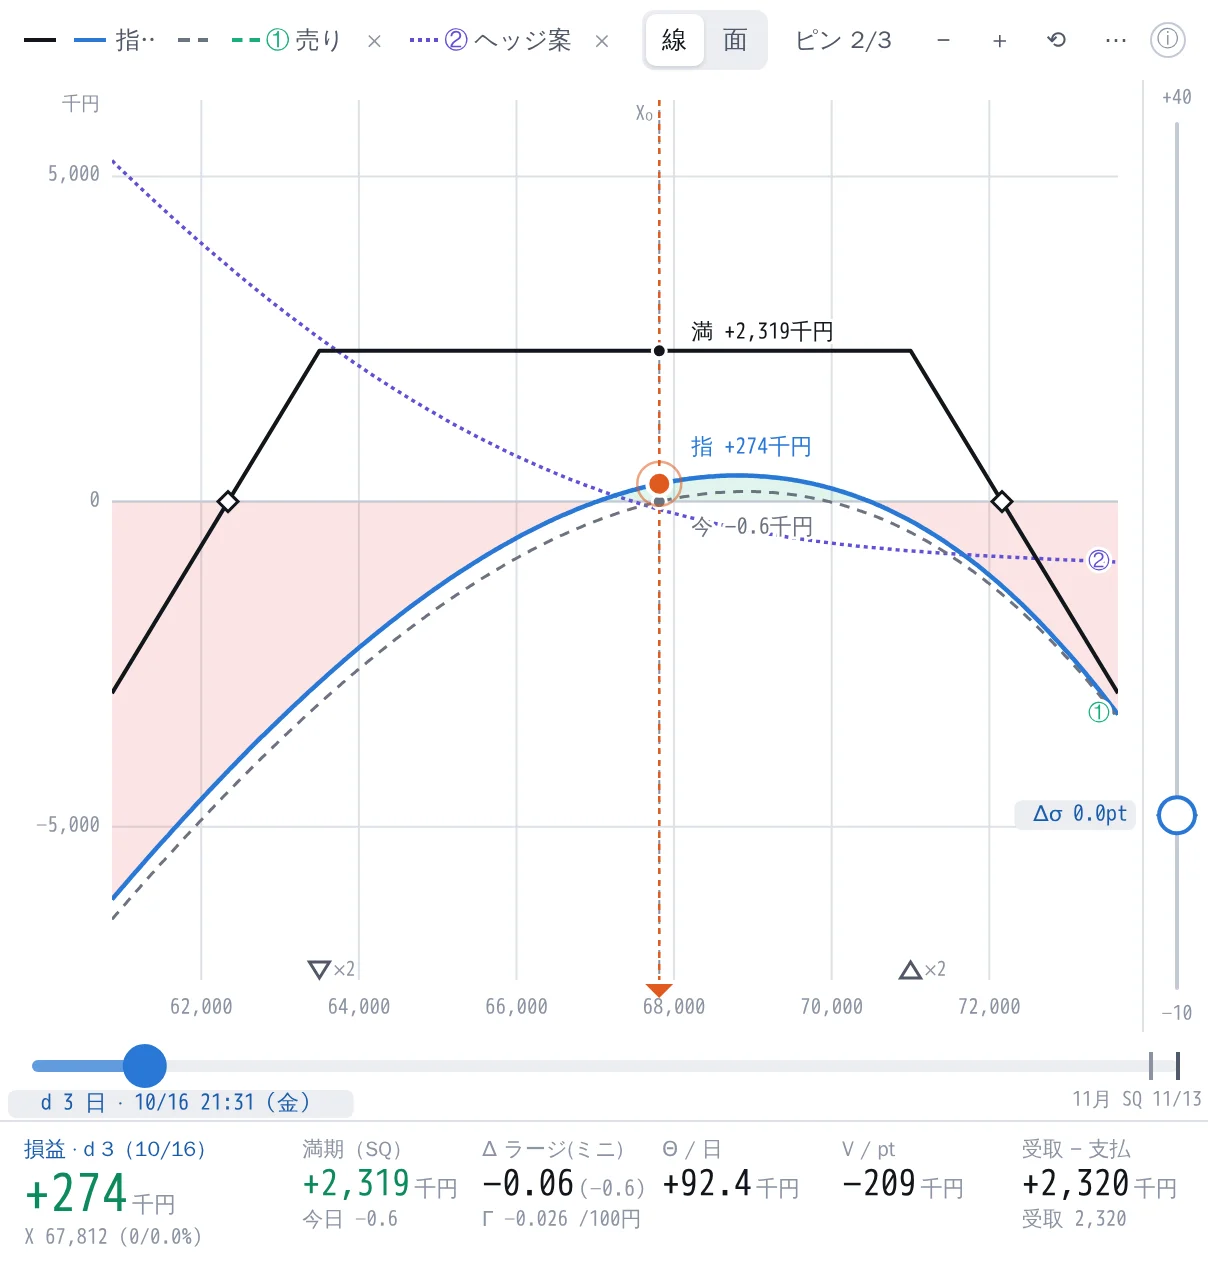
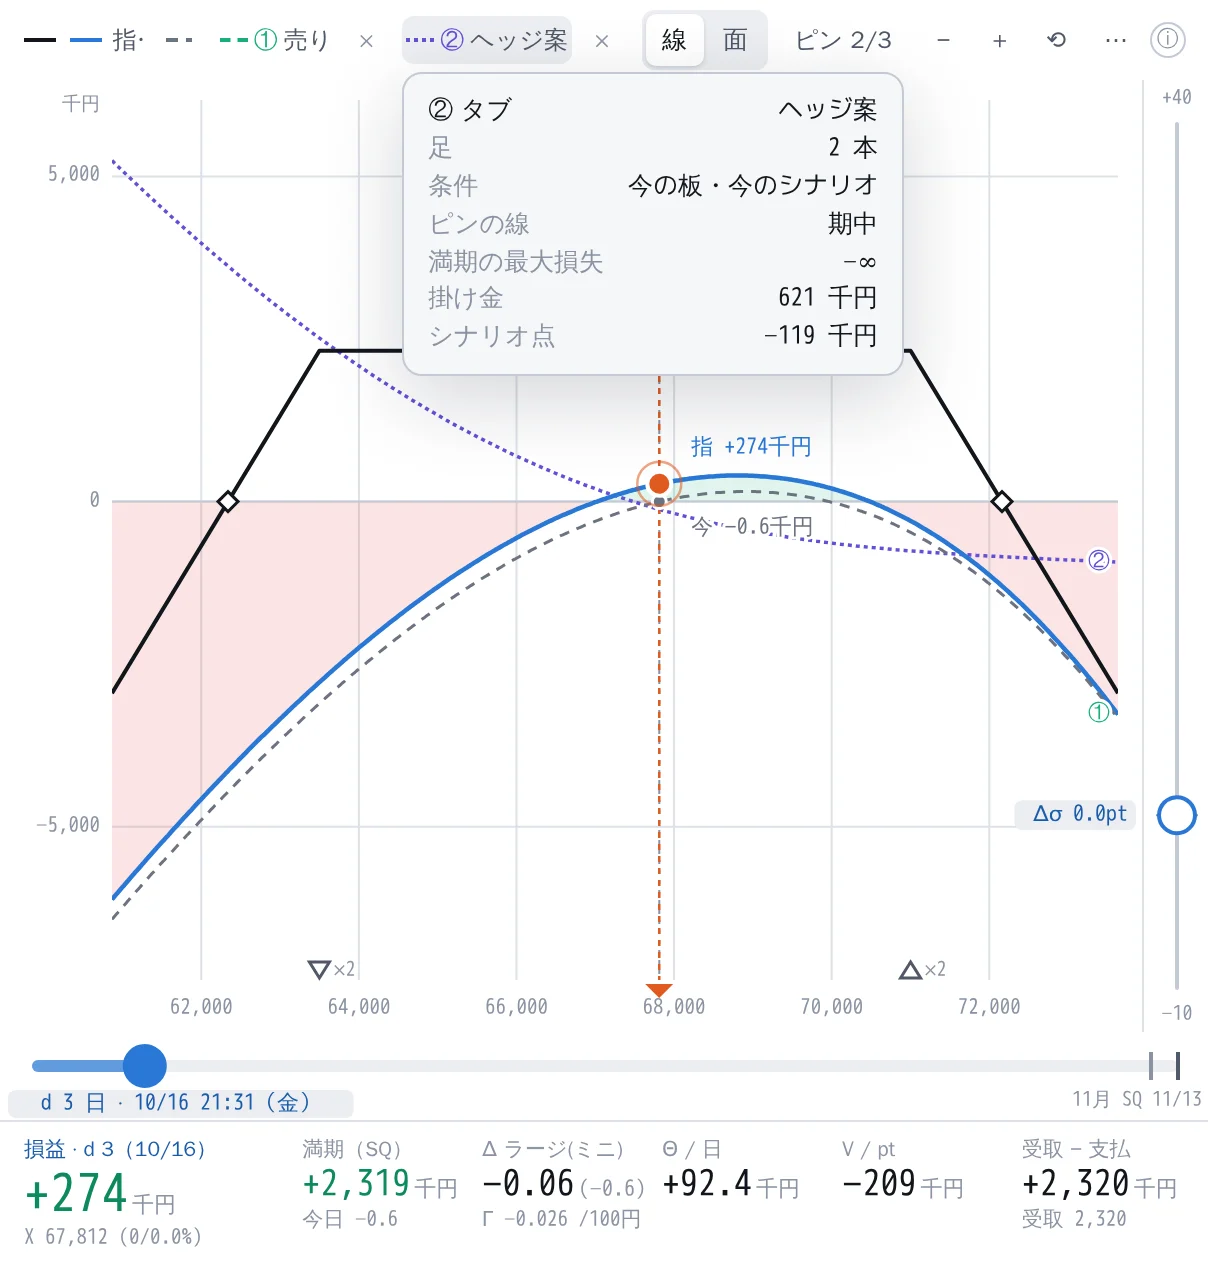
docs: 2026-10-22 に出した機能に合わせて文書を点検・最新化し、README の画像を撮り直す
- README: 機能一覧と機能ツアーに許容損失の境目（#180）・ピンの中身（#125）・売りの効率の線（#163）
- マニュアル: 市場の切替に [先物]、ピンの操作、許容損失は AI に渡らないこと、
  閉じた / 予定の無い機能を「今後の予定」と書かない（テンプレートは AI の提案で）
- design.md: 状態の行、テンプレート（#20）の見送り、縦切りの状態（#38 が残る）、
  10 章のコードの置き場所、12 章の面モード、13.4 のピンのポップオーバー、変更履歴
- ui-redesign.md: #123 の変更履歴を先頭へ、#125・#176 の履歴、#91 段 D の記録に #125 の解決
- data-sources.md（#247・#257）、ai-advisor.md（状態）、api/README.md・CLAUDE.md（API の口）
- readmeShots: 追証マップに許容損失、スマイルに [効率]、ピンの中身を開いて撮る。
  holdmap・smile・stage-pins を撮り直し（合成の板の架空の値）

diff --git a/README.md b/README.md
@@ -27,11 +27,11 @@
 
 板から足を選んでポジションを組み、満期・指定日・今日の損益を 1 枚のグラフで読みます。グラフのハンドルをつかんで日数・原資産・IV を動かすと、損益・グリーク・証拠金・テールが一緒に動きます。PC では 1 画面に収まり、スマホではドックとシートで切り替えます。
 
-- **損益グラフ** — 満期（解析解）・指定日 + シナリオ・今日の 3 本。十字線で任意の原資産の損益を読む、長押しでシナリオ点をつかむ、ピンで別の案と重ねる、日数 × 原資産の **面** にも切り替え
+- **損益グラフ** — 満期（解析解）・指定日 + シナリオ・今日の 3 本。十字線で任意の原資産の損益を読む、長押しでシナリオ点をつかむ、ピンで別の案と重ねる（凡例の番号を押すと条件・最大損失）、日数 × 原資産の **面** にも切り替え
 - **シナリオ** — 経過日数・原資産 ΔX（−90〜+100%）・IV 平行移動 Δσ・スキュー Δs・β（下落で IV が上がる）。急落 / 下落 / 反発のプリセット
 - **指標 · テール** — 最大損益・BEP・合計グリーク（Δ はラージ / ミニ換算）、−5〜−40% のテール表
-- **証拠金の概算** — 必要証拠金・余力、損益グラフに **追証の線**、過去の 2 営業日の動きと重ねる **追証マップ**
-- **板とスマイル** — 板の bid で売り・ask で買いの足が入る。スマイル（bid / ask / mid の IV と補間・外挿）の点からも
+- **証拠金の概算** — 必要証拠金・余力、損益グラフに **追証の線**、過去の 2 営業日の動きと重ねる **追証マップ**（許容損失を設定すると、その境目も）
+- **板とスマイル** — 板の bid で売り・ask で買いの足が入る。スマイル（bid / ask / mid の IV と補間・外挿）の点からも。[効率] で行使価格ごとの **売りの効率**（プレミアム ÷ 必要証拠金）の線
 - **IV 推移と先物推移** — ATM IV と日経225 先物のローソク足（1 分〜日足）。先物には EMA の 3 本と RSI・MACD・ストキャスティクスの段
 - **AI に相談** — [このポジションを診断]、**定型の質問**（崩れ方・反論・板の前提・ヘッジ案・出口・今の IV は売り時？）、続けての質問、画面の数字からの **[AI に聞く]**、ヘッジや組み方の **提案のカード**、先物の **テクニカルの読み**、**IV の過去の統計**（分位・スパイクの戻り方・β の実測・HV）、使い方・計算の前提の質問にはマニュアルの節を示して答える。返答の比較は表で、用語は説明カードへのリンクに。設定に **自分の前提**（資金・許容損失・好む形など）を書くと毎回渡る。数字はこのシミュレーター自身の計算から取る
 - **コマンドパレット・用語集・設定** — `Ctrl + K` で何でも、`?` で用語の説明カード。テクニカル指標の期間と線の太さも設定で
@@ -55,11 +55,11 @@
     <td><b>長押しでつかむ</b> — シナリオ点を左右に動かすと、交点の金額と下の読み取り（損益・満期・Δ・Θ・V）が付いてくる</td>
   </tr>
   <tr>
-    <td><img src="docs/images/stage-pins.webp" alt="ライト。今の線のピンとヘッジ案のピンを重ねた損益グラフ"></td>
+    <td><img src="docs/images/stage-pins.webp" alt="ライト。今の線のピンとヘッジ案のピンを重ねた損益グラフと、凡例の ② を押して開いたピンの中身（足・条件・満期の最大損失・掛け金・シナリオ点の損益）"></td>
     <td><img src="docs/images/stage-surface.webp" alt="ダーク。横が原資産・縦が経過日数の損益の面（緑が利益・赤が損失）に十字線と、その点の損益と日数の札"></td>
   </tr>
   <tr>
-    <td><b>ピン</b> — 今の線を残す・別のタブ（ヘッジ案）を重ねる。最大 3 本</td>
+    <td><b>ピン</b> — 今の線を残す・別のタブ（ヘッジ案）を重ねる。最大 3 本。凡例の ①②③ を押すと、そのピンの条件・満期の最大損失・シナリオ点の損益が出る</td>
     <td><b>面モード</b> — 横 = 原資産、縦 = 経過日数。点をドラッグすると ΔX と d が同時に動く。PC はマウスを載せた点の損益と日数を十字線で読む</td>
   </tr>
 </table>
@@ -81,21 +81,21 @@
 <table>
   <tr>
     <td width="50%"><img src="docs/images/margin-line.webp" alt="ライト。全域まで縮小した損益グラフに、赤の破線「追証」が左右に 2 本"></td>
-    <td width="50%"><img src="docs/images/holdmap.webp" alt="ダーク。追証マップ。横が原資産の変化・縦が IV の倍率で、余力ありの緑の領域と過去の 2 営業日の動きの点群"></td>
+    <td width="50%"><img src="docs/images/holdmap.webp" alt="ダーク。追証マップ · 10 日後。横が原資産の変化・縦が IV の倍率で、許容内（緑）・許容損失超（黄）・追証（赤）の 3 色と 2 本の境目、過去の 2 営業日の動きの点群"></td>
   </tr>
   <tr>
     <td><b>追証の線</b> — 資金を設定すると、余力（概算）が 0 になる原資産に赤の破線</td>
-    <td><b>追証マップ</b> — 原資産と IV が同時に動いたときの余力（原資産の変化 × IV の倍率）の正負を塗り、過去の 2 営業日の動き（日次の原資産と ATM IV）を点で重ねる。「過去 N 回のうち何回が追証の側か」</td>
+    <td><b>追証マップ</b> — 原資産と IV が同時に動いたときの余力（原資産の変化 × IV の倍率）の正負を塗り、過去の 2 営業日の動き（日次の原資産と ATM IV）を点で重ねる。「過去 N 回のうち何回が追証の側か」。設定で許容損失を入れると、シナリオの日数の後の損失が許容損失を超える境目も重なり、3 色で塗り分ける</td>
   </tr>
 </table>
 
-証拠金は概算です（掛け目・値動き幅・IV の幅は設定で寄せられます）。
+証拠金は概算です（掛け目・値動き幅・IV の幅は設定で寄せられます）。資金・許容損失も設定で入れます（この端末にだけ保存）。
 
 ### 5. 板とスマイルで足を選ぶ
 
 板の bid を押すと売り、ask を押すと買いの足が入ります。ATM・OTM 度・|Δ| へのジャンプ、限月と put / call の切替。スマイルは OTM 側の bid / ask / mid の IV と、節点・補間・外挿の線（不安定な点は ×）。点を選ぶと、板と同じ規則で足を入れる操作行が出ます。[効率] を押すと、行使価格ごとに 1 枚売ったときの「受け取るプレミアム ÷ 必要証拠金（概算）」の線が重なり、シナリオの IV を動かすと線が動きます。
 
-<p align="center"><img src="docs/images/smile.webp" alt="ダーク。11 月限のスマイル。67,750 put を選んで売り 1,920 / 買い 1,935 のボタン" width="45%"></p>
+<p align="center"><img src="docs/images/smile.webp" alt="ダーク。11 月限のスマイル。[効率] で売りの効率の線（右の目盛り %）を重ね、67,750 put を選んで売り 1,920 / 買い 1,935 のボタン" width="45%"></p>
 
 ### 6. IV 推移と先物推移（テクニカル）
 
@@ -302,7 +302,7 @@ GCP_PROJECT_ID=$P GCP_PROJECT_NUMBER=$(gcloud projects describe "$P" --format='v
 
 ## スクリーンショットの撮り直し
 
-この README の画像（`docs/images/*.webp`）は `scripts/readmeShots.mjs` で撮っています。Vite の dev サーバーを中で起こし、**合成の板**（`fixtures/synthetic/latest.json`）と dev サーバーの合成の応答（IV 推移・先物推移・日次の値・AI の架空の返答（診断・シナリオの評価・提案・テクニカル・表）。`scripts/devFixtures.mjs`）だけを使います。本番・API・BigQuery・Anthropic には触れません。足・シナリオ・資金（架空の値）は localStorage に入れて開きます。
+この README の画像（`docs/images/*.webp`）は `scripts/readmeShots.mjs` で撮っています。Vite の dev サーバーを中で起こし、**合成の板**（`fixtures/synthetic/latest.json`）と dev サーバーの合成の応答（IV 推移・先物推移・日次の値・AI の架空の返答（診断・シナリオの評価・提案・テクニカル・表）。`scripts/devFixtures.mjs`）だけを使います。本番・API・BigQuery・Anthropic には触れません。足・シナリオ・資金・許容損失（架空の値）は localStorage に入れて開きます。
 
 ```sh
 npx playwright install chromium        # 初回だけ

diff --git a/CLAUDE.md b/CLAUDE.md
@@ -10,7 +10,7 @@
 - `fixtures/synthetic/`: 合成の固定の板（架空の値。`scripts/synthBoard.ts` から `npm run fixtures` で作る。手で編集しない）
 - `ui/`: 画面（TypeScript + Vite + Preact 10）。状態と reducer は `ui/state.ts`、表示モデルは `ui/view/` の純関数（Preact に依存しない。`tests/ui/` で確かめる）、グラフの座標と拡大・パンの規則は `ui/chart/scale.ts`、ジェスチャー（ドラッグ・ピンチ・タップ・損益グラフの長押し / つかむ）の状態機械は `ui/chart/gesture.ts`（どちらも純関数）、DOM のイベントは損益グラフとスマイルで共用のフック `ui/components/useChartGestures.ts`、部品（`ui/next/`）は表示モデルを描くだけ。板・入力値は JSX のテキスト / 属性で入れ、HTML 文字列を DOM に入れる API と `style` 属性（JSX の style prop を含む）を使わない（CSP）
   - 画面は docs/ui-redesign.md の設計で `ui/next/`（歴史的な名前。#91 で既定に切り替え旧画面を削除したので唯一の画面。クエリによらずこの画面を開く。部品の見本は dev だけ `?parts`）。CSS は `ui/next/next.css`（トークンは `ui/next/css/tokens.css`。色はトークンだけ = `tests/ui/cssTokens.test.ts` が `ui/**/*.css` を検査）、共通部品は `ui/next/parts/`、状態と保存は `ui/components/useAppController.ts`（`ui/components/` に残るのは DOM・CSS を持たないフックだけ）、見た目の状態は `ui/view/shell.ts`。規約は docs/ui-redesign.md 10.1
-- `api/`: 板（`/api/chain`）・カレンダー（`/api/calendar`）・IV 推移（`/api/atm_iv`。表 `atm_cm_iv` の `iv30`）の JSON を返す Python 3.13（Flask / gunicorn、uv.lock）。optionchan の BigQuery を読むだけ（書き込まない）。供給元は `DATA_SOURCE`（`bigquery` 既定 / `file` / `quotes` = 中立の気配の一覧）で、口と表は `api/src/simulator_api/sources.py`、中立の形 → 板は `quotes.py`。板の契約（必須 / 欠けうる）と候補の比較は `docs/data-sources.md`（#154）。使える板の判定は `api/src/simulator_api/usable.py` の純関数（定数は `settings.py` の上部）、optionchan との契約（使う列・型）は `contract.py` に 1 か所。AI の中継（`POST /api/ai/messages`（SSE）・`GET /api/ai/status`。#134）は `api/src/simulator_api/ai/`（許可リスト・費用の 1 日上限（Firestore の名前つき DB）・口の守り。AI が節ごとに読むマニュアル・設計書の索引と中継が実行する `read_doc` は `ai/docs.py`（#137。文書はイメージの `/app/docs`）。送り口は資格情報によらず Claude Agent SDK `claude-agent-sdk`（同梱の CLI）だけ。`docs/adr-0005-ai-oauth-via-agent-sdk.md`・`docs/adr-0006-ai-agent-sdk-only-and-skills.md`。必要なときだけ読む手順（スキル）は `ai/plugin/skills/<名前>/SKILL.md` と一覧 `ai/skills.py`）で、ブラウザ側の受け口は `data/aiStream.ts`。テストは pytest と偽の runner（合成の板）・偽の送信先（Anthropic を呼ばない）。手順は `api/README.md`
+- `api/`: 板（`/api/chain`）・カレンダー（`/api/calendar`）・IV 推移（`/api/atm_iv`。表 `atm_cm_iv` の `iv30`）・日次の値（`/api/atm_daily`。追証マップ・AI の IV の統計）・先物推移（`/api/future_bars`）の JSON を返す Python 3.13（Flask / gunicorn、uv.lock）。optionchan の BigQuery を読むだけ（書き込まない）。供給元は `DATA_SOURCE`（`bigquery` 既定 / `file` / `quotes` = 中立の気配の一覧）で、口と表は `api/src/simulator_api/sources.py`、中立の形 → 板は `quotes.py`。板の契約（必須 / 欠けうる）と候補の比較は `docs/data-sources.md`（#154）。使える板の判定は `api/src/simulator_api/usable.py` の純関数（定数は `settings.py` の上部）、optionchan との契約（使う列・型）は `contract.py` に 1 か所。AI の中継（`POST /api/ai/messages`（SSE）・`GET /api/ai/status`。#134）は `api/src/simulator_api/ai/`（許可リスト・費用の 1 日上限（Firestore の名前つき DB）・口の守り。AI が節ごとに読むマニュアル・設計書の索引と中継が実行する `read_doc` は `ai/docs.py`（#137。文書はイメージの `/app/docs`）。送り口は資格情報によらず Claude Agent SDK `claude-agent-sdk`（同梱の CLI）だけ。`docs/adr-0005-ai-oauth-via-agent-sdk.md`・`docs/adr-0006-ai-agent-sdk-only-and-skills.md`。必要なときだけ読む手順（スキル）は `ai/plugin/skills/<名前>/SKILL.md` と一覧 `ai/skills.py`）で、ブラウザ側の受け口は `data/aiStream.ts`。テストは pytest と偽の runner（合成の板）・偽の送信先（Anthropic を呼ばない）。手順は `api/README.md`
 - `infra/`: Terraform（terraform 1.16.4・google 8.4.0）。`infra/bootstrap` は所有者が手元で apply する WIF・SA・state バケット・Artifact Registry・`optionchan_tokyo` の読み取り（非権威的）・IAP の閲覧許可・Secret Manager（AI の資格情報の入れ物と `sa-simulator` の読み取り。値は Terraform に入れない。`docs/adr-0001-ai-credentials-secret-manager.md`）・AI の費用の計上の Firestore の名前つき DB `simulator-ai` と `sa-simulator` の条件つきの `datastore.user`（`docs/adr-0004-ai-spend-counter-firestore.md`）、`infra/prod` は CI（`.github/workflows/deploy.yml`、Environment `prod` の承認後）が apply する Cloud Run `simulator`（IAP。AI の資格情報は変数 `ai_credential` で片方だけを Secret の参照に）と IAP のサービスエージェントの `run.invoker`。付与は追加型（`*_iam_member`）だけ。テストは `infra/*/tests/`（`terraform test`、モックのプロバイダ）。手順・構成は `infra/README.md`
 
 - `tests/`: vitest のテスト（`tests/model/`・`tests/data/`・`tests/ui/`）と、合成の板の生成器などの補助（`tests/support/`）

diff --git a/docs/ai-advisor.md b/docs/ai-advisor.md
@@ -4,6 +4,8 @@ EPIC #141（AI アドバイザー）の 1 本目の spike。後続の #133（鍵
 
 本文の価格・ポジション・トークン数・費用の数値例はすべて **架空の値か合成の値**（合成の板 `fixtures/synthetic/` と架空のポジションから作ったもの）で、JPX 由来の実データは写していない。外部の事実（料金・モデル ID・機能・データの保持）の **確認日はすべて 2026-10-19**。リポジトリと本番の観測も同じ日（本番は読み取りだけ。ID・URL は記録しない）。
 
+状態（2026-10-22）: 論点 1〜8 はすべて決定済み（各論点の「オーナー判断」）。EPIC #141 は 2026-10-21 に完了した。決定の後の変更（送り口を Claude Agent SDK に一本化した ADR-0005・ADR-0006 など）を含む今の作りの正は `docs/design.md` 13.1 K15・13.4・14 章で、この文書は決めた当時の比較の記録。
+
 用語: **ツール**（tool use）= AI が名前と引数を指定して呼び、こちらが計算した結果を返す関数。**中継** = ブラウザと Anthropic API の間に立つ simulator の API（鍵をブラウザに出さないため）。**TTFT**（time to first token）= 要求を送ってから最初の文字が届くまでの時間。**prompt caching** = 要求の前置き（system・ツールの定義など）を Anthropic 側に一時的に置き、次の要求で安く速く読む仕組み。
 
 ## 1. 前提（現状の観測）
@@ -349,6 +351,8 @@ A（日の上限は最後の砦）。
 終了条件 1・7〜10（読み解き・根拠つきの説明・[AI に聞く]・IV 推移の解析・組み方の提案）は #132 の対象外で、それぞれの子（#135・#137・#136・#138・#139）で決める。
 
 ## オーナーが答えた後にすること
+
+（済み。2026-10-19 に 1〜4 を行った。下は当時の手順の記録）
 
 1. 各論点の「#### オーナー判断」の「未決」を、日付つきの決定（例: 「2026-10-XX オーナー決定: A（推奨どおり）」）に書き換える
 2. 決まった論点を `docs/design.md` 13.1 の決定事項に移し、13.2 の AI1〜AI5 の行を消す。14 章を決定に合わせて書き直す（付録 B の「API の有効化」の扱いも、論点 2 の結果に合わせて直す）

diff --git a/docs/data-sources.md b/docs/data-sources.md
@@ -100,5 +100,6 @@
 ## 6. 未確認・残り
 
 - kabu ステーション API の条件の解釈（第三者のプログラムの利用・加工の禁止）。オーナー判断・証券会社への確認（#154）
-- 立花 e 支店 API の先物・オプションの時価の有無、J-Quants・楽天・IB の規約本文と料金
+- 立花 e 支店 API の先物・オプションの時価の有無（実測は #247。optionchan の取り込み元の差し替えの中で行う）、J-Quants・楽天・IB の規約本文と料金
 - J-Quants の日次の値（清算値・IV）で板を組む「清算値モード」（後段。別 Issue の候補）
+- optionchan 側で取り込み元を差し替えられるようになったとき（optionchan のリポジトリの EPIC）の、契約の照合・IV とグリークが空の板での確認・この文書の更新（#257）

diff --git a/api/README.md b/api/README.md
@@ -1,4 +1,4 @@
-# api（板・カレンダー・IV 推移の JSON を返す Flask と、AI の中継）
+# api（板・カレンダー・IV 推移・先物推移・日次の値の JSON を返す Flask と、AI の中継）
 
 optionchan の BigQuery（データセット `optionchan_tokyo` のテーブル関数 4 本とビュー `trading_calendar_latest`、表 `atm_cm_iv`）を **読むだけ** の API と、AI アドバイザーの中継（Anthropic の Messages API。#134）。計算（F・補間・ATM）はブラウザの `model/` で行う。設計は `docs/design.md` の 7.1〜7.3・7.5・8.3・13.4「AI の中継」・14 章。供給元は `DATA_SOURCE` で差し替えられる（下の設定。供給元の口・板の契約・中立の気配の一覧は `docs/data-sources.md`。#154）。
 
